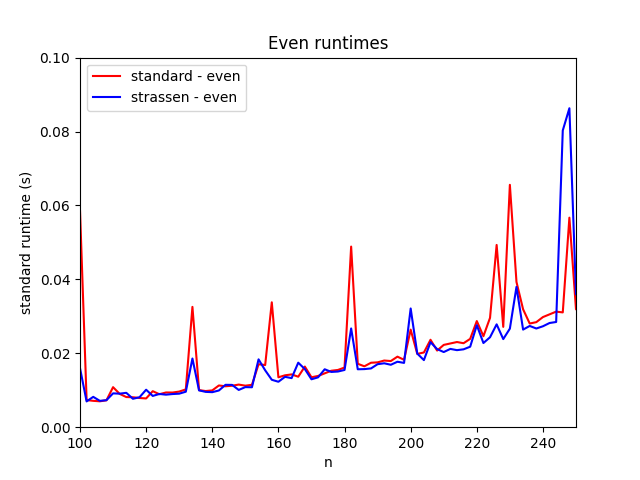
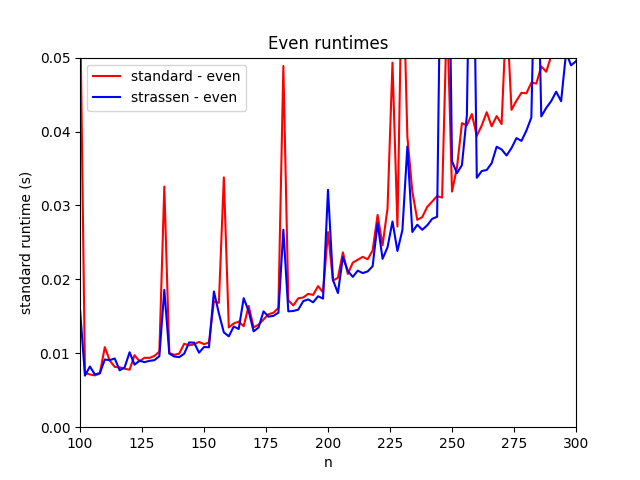
float -> int

diff --git a/prog2/strassen.cpp b/prog2/strassen.cpp
@@ -11,7 +11,7 @@ using namespace std;
 
 // TASK 3: Triangles
 
-void printMatrix (vector<vector<float> > *M) {
+void printMatrix (vector<vector<int> > *M) {
     int n = M->size();
     cout << "[\n";
     for (int i = 0; i < n; ++i) {
@@ -23,7 +23,7 @@ void printMatrix (vector<vector<float> > *M) {
     cout << "]\n\n";
 }
 
-void printDiagonals (vector<vector<float> > *M) {
+void printDiagonals (vector<vector<int> > *M) {
     int n = M->size();
     for (int i = 0; i < n; ++i) {
         cout << (*M)[i][i] << "\n";
@@ -31,11 +31,11 @@ void printDiagonals (vector<vector<float> > *M) {
     cout << "\n";
 }
 
-void copyFromFile (vector<vector<float> > *A, vector<vector<float> > *B, string inputfile, int n) {
+void copyFromFile (vector<vector<int> > *A, vector<vector<int> > *B, string inputfile, int n) {
     ifstream input(inputfile);
     string line;
     for (int i = 0; i < n; ++i) {
-        vector<float> v;
+        vector<int> v;
         for (int j = 0; j < n; ++j) { 
             getline(input, line);
             v.push_back(stol(line, NULL, 10));
@@ -43,7 +43,7 @@ void copyFromFile (vector<vector<float> > *A, vector<vector<float> > *B, string 
         (*A).push_back(v);
     }
     for (int i = 0; i < n; ++i) {
-        vector<float> v;
+        vector<int> v;
         for (int j = 0; j < n; ++j) { 
             getline(input, line);
             v.push_back(stol(line, NULL, 10));
@@ -52,8 +52,8 @@ void copyFromFile (vector<vector<float> > *A, vector<vector<float> > *B, string 
     }
 }
 
-vector<vector<float> > generateMatrix (int n) {
-    vector<vector<float> > M; 
+vector<vector<int> > generateMatrix (int n) {
+    vector<vector<int> > M; 
     M.resize(n);
     for (int i = 0; i < n; ++i) {
         M[i].resize(n);
@@ -77,13 +77,14 @@ Runtime: O(n^3)
 
 Tests: runs, correct
 */
-vector<vector<float> > standard (vector<vector<float> > *A, vector<vector<float> > *B) {
+vector<vector<int> > standard (vector<vector<int> > *A, vector<vector<int> > *B) {
     int n = A->size();
-    vector<vector<float> > C;
+    vector<vector<int> > C;
     C.resize(n);
 
     for (int i = 0; i < n; ++i) {
         C[i].resize(n);
+        // todo optimize?
         for (int j = 0; j < n; ++j) {
             // row i of A, col j of B
             for (int k = 0; k < n; ++k) {
@@ -97,8 +98,8 @@ vector<vector<float> > standard (vector<vector<float> > *A, vector<vector<float>
     return C;
 }
 
-vector<vector<float> > fill_arr (vector<vector<float> > *M, int rstart, int cstart, int len) {
-    vector<vector<float> > A;
+vector<vector<int> > fill_arr (vector<vector<int> > *M, int rstart, int cstart, int len) {
+    vector<vector<int> > A;
     A.resize(len);
     //cout << len;
     for (int i = rstart; i < rstart + len; ++i) {
@@ -112,8 +113,8 @@ vector<vector<float> > fill_arr (vector<vector<float> > *M, int rstart, int csta
     return A;
 }
 
-vector<vector<float> > AplusB (vector<vector<float> > *A, vector<vector<float> > *B, bool subtract=false) {
-    vector<vector<float> > C;
+vector<vector<int> > AplusB (vector<vector<int> > *A, vector<vector<int> > *B, bool subtract=false) {
+    vector<vector<int> > C;
     int n = A->size();
     C.resize(n);
     for (int i = 0; i < n; ++i) {
@@ -132,7 +133,7 @@ vector<vector<float> > AplusB (vector<vector<float> > *A, vector<vector<float> >
 
 
 
-void resizeMatrix (vector<vector<float> > *A, int newn) {
+void resizeMatrix (vector<vector<int> > *A, int newn) {
     int n = A->size();
     A->resize(newn);
     for (int i = 0; i < newn; ++i) {
@@ -155,7 +156,7 @@ Input:
 Output: 
 - product of M1 and M2
 */
-vector<vector<float> > strassen (vector<vector<float> > *M1, vector<vector<float> > *M2) {
+vector<vector<int> > strassen (vector<vector<int> > *M1, vector<vector<int> > *M2) {
     int n = M1->size();
     int oldn = n;
     bool odd = fmod(n,2) != 0;
@@ -178,34 +179,34 @@ vector<vector<float> > strassen (vector<vector<float> > *M1, vector<vector<float
         resizeMatrix(M2, n);
     }
     // if power of 2
-    vector<vector<float> > A = fill_arr(M1, 0, 0, n/2);
-    vector<vector<float> > B = fill_arr(M1, 0, n/2, n/2);
-    vector<vector<float> > C = fill_arr(M1, n/2, 0, n/2);
-    vector<vector<float> > D = fill_arr(M1, n/2, n/2, n/2);
-    vector<vector<float> > E = fill_arr(M2, 0, 0, n/2);
-    vector<vector<float> > F = fill_arr(M2, 0, n/2, n/2);
-    vector<vector<float> > G = fill_arr(M2, n/2, 0, n/2);
-    vector<vector<float> > H = fill_arr(M2, n/2, n/2, n/2);
+    vector<vector<int> > A = fill_arr(M1, 0, 0, n/2);
+    vector<vector<int> > B = fill_arr(M1, 0, n/2, n/2);
+    vector<vector<int> > C = fill_arr(M1, n/2, 0, n/2);
+    vector<vector<int> > D = fill_arr(M1, n/2, n/2, n/2);
+    vector<vector<int> > E = fill_arr(M2, 0, 0, n/2);
+    vector<vector<int> > F = fill_arr(M2, 0, n/2, n/2);
+    vector<vector<int> > G = fill_arr(M2, n/2, 0, n/2);
+    vector<vector<int> > H = fill_arr(M2, n/2, n/2, n/2);
     
     // products
-    vector<vector<float> > AB = AplusB(&A,&B);
-    vector<vector<float> > AD = AplusB(&A,&D);
-    vector<vector<float> > CA = AplusB(&C,&A,true);
-    vector<vector<float> > FH = AplusB(&F,&H,true);
-    vector<vector<float> > CD = AplusB(&C,&D);
-    vector<vector<float> > GE = AplusB(&G,&E,true);
-    vector<vector<float> > EH = AplusB(&E,&H);
-    vector<vector<float> > BD = AplusB(&B,&D,true);
-    vector<vector<float> > GH = AplusB(&G,&H);
-    vector<vector<float> > EF = AplusB(&E,&F);
+    vector<vector<int> > AB = AplusB(&A,&B);
+    vector<vector<int> > AD = AplusB(&A,&D);
+    vector<vector<int> > CA = AplusB(&C,&A,true);
+    vector<vector<int> > FH = AplusB(&F,&H,true);
+    vector<vector<int> > CD = AplusB(&C,&D);
+    vector<vector<int> > GE = AplusB(&G,&E,true);
+    vector<vector<int> > EH = AplusB(&E,&H);
+    vector<vector<int> > BD = AplusB(&B,&D,true);
+    vector<vector<int> > GH = AplusB(&G,&H);
+    vector<vector<int> > EF = AplusB(&E,&F);
     
-    vector<vector<float> > p1 = strassen(&A, &FH);
-    vector<vector<float> > p2 = strassen(&AB, &H);
-    vector<vector<float> > p3 = strassen(&CD, &E);
-    vector<vector<float> > p4 = strassen(&D, &GE);
-    vector<vector<float> > p5 = strassen(&AD, &EH);
-    vector<vector<float> > p6 = strassen(&BD, &GH);
-    vector<vector<float> > p7 = strassen(&CA, &EF);
+    vector<vector<int> > p1 = strassen(&A, &FH);
+    vector<vector<int> > p2 = strassen(&AB, &H);
+    vector<vector<int> > p3 = strassen(&CD, &E);
+    vector<vector<int> > p4 = strassen(&D, &GE);
+    vector<vector<int> > p5 = strassen(&AD, &EH);
+    vector<vector<int> > p6 = strassen(&BD, &GH);
+    vector<vector<int> > p7 = strassen(&CA, &EF);
 
     // clear A ... H
     A.clear();
@@ -219,15 +220,15 @@ vector<vector<float> > strassen (vector<vector<float> > *M1, vector<vector<float
 
     // parts
     // TODO modify AplusB to return something that can be used without saving
-    vector<vector<float> > p4p2 = AplusB(&p4,&p2,true);
-    vector<vector<float> > p4p2p5 = AplusB(&p4p2,&p5);
-    vector<vector<float> > p1p3 = AplusB(&p1,&p3,true);
-    vector<vector<float> > p1p3p5 = AplusB(&p1p3,&p5);
+    vector<vector<int> > p4p2 = AplusB(&p4,&p2,true);
+    vector<vector<int> > p4p2p5 = AplusB(&p4p2,&p5);
+    vector<vector<int> > p1p3 = AplusB(&p1,&p3,true);
+    vector<vector<int> > p1p3p5 = AplusB(&p1p3,&p5);
 
-    vector<vector<float> > q1 = AplusB(&p4p2p5,&p6);
-    vector<vector<float> > q2 = AplusB(&p1,&p2);
-    vector<vector<float> > q3 = AplusB(&p3,&p4);
-    vector<vector<float> > q4 = AplusB(&p1p3p5,&p7);
+    vector<vector<int> > q1 = AplusB(&p4p2p5,&p6);
+    vector<vector<int> > q2 = AplusB(&p1,&p2);
+    vector<vector<int> > q3 = AplusB(&p3,&p4);
+    vector<vector<int> > q4 = AplusB(&p1p3p5,&p7);
 
     // clear p1...p7
     p1.clear();
@@ -260,8 +261,8 @@ vector<vector<float> > strassen (vector<vector<float> > *M1, vector<vector<float
     return q1;
 }
 
-vector<vector<float> > generateTriangleMatrix (int p, int n) {
-    vector<vector<float> > M; 
+vector<vector<int> > generateTriangleMatrix (int p, int n) {
+    vector<vector<int> > M; 
     M.resize(n);
     for (int i = 0; i < n; ++i) {
         M[i].resize(n);
@@ -282,8 +283,8 @@ vector<vector<float> > generateTriangleMatrix (int p, int n) {
     return M;
 }
 
-int findTriangles (vector<vector<float> > *A, int n) {
-    float sum = 0;
+int findTriangles (vector<vector<int> > *A, int n) {
+    int sum = 0;
     for (int i = 0; i < n; ++i) {
       sum = sum + (*A)[i][i];
     }
@@ -295,9 +296,9 @@ int main(int argc, char * argv[]) {
     int n = 512;
     srand(time(NULL));
     // string input = argv[3];
-    vector<vector<float> > A = generateMatrix(n);
-    vector<vector<float> > B = generateMatrix(n);
-    vector<vector<float> > C;
+    vector<vector<int> > A = generateMatrix(n);
+    vector<vector<int> > B = generateMatrix(n);
+    vector<vector<int> > C;
     // copyFromFile(&A,&B,input,n);
     /*if (strtol(argv[1], NULL, 10) == 1) {
         C = standard(&A,&B);
@@ -308,8 +309,8 @@ int main(int argc, char * argv[]) {
     // printDiagonals(&C);
 
         // test for p = 0.01
-    vector<vector<float> > trig = generateTriangleMatrix(50, n);
-    vector<vector<float> > intermed = strassen(&trig, &trig);
-    vector<vector<float> > threeA = strassen(&trig, &intermed);
+    vector<vector<int> > trig = generateTriangleMatrix(50, n);
+    vector<vector<int> > intermed = strassen(&trig, &trig);
+    vector<vector<int> > threeA = strassen(&trig, &intermed);
     cout << findTriangles(&threeA, n);
 }

diff --git a/prog2/plot_runtimes.py b/prog2/plot_runtimes.py
@@ -10,20 +10,20 @@ runtimes_even = runtimes[runtimes.n % 2 == 0]
 
 sns.lineplot(data=runtimes_odd,x="n",y="standard runtime (s)", c="r",label="standard - odd")
 sns.lineplot(data=runtimes_odd,x="n",y="strassen runtime (s)", c="b",label="strassen - odd")
-plt.xlim([100,250])
-plt.ylim([0,0.1])
+plt.xlim([100,300])
+plt.ylim([0,0.05])
 plt.legend()
 plt.title("Odd runtimes")
-plt.savefig(f"runtimes_odd_{even_cutoff}_{odd_cutoff}.png")
+plt.savefig(f"runtimes_odd_{even_cutoff}_{odd_cutoff}_closeup.png")
 plt.show()
 plt.clf()
 
 sns.lineplot(data=runtimes_even,x="n",y="standard runtime (s)", c="r",label="standard - even")
 sns.lineplot(data=runtimes_even,x="n",y="strassen runtime (s)", c="b",label="strassen - even")
-plt.xlim([100,250])
-plt.ylim([0,0.1])
+plt.xlim([100,300])
+plt.ylim([0,0.05])
 plt.legend()
 plt.title("Even runtimes")
-plt.savefig(f"runtimes_even_{even_cutoff}_{odd_cutoff}.png")
+plt.savefig(f"runtimes_even_{even_cutoff}_{odd_cutoff}_closeup.png")
 plt.show()
 plt.clf()
